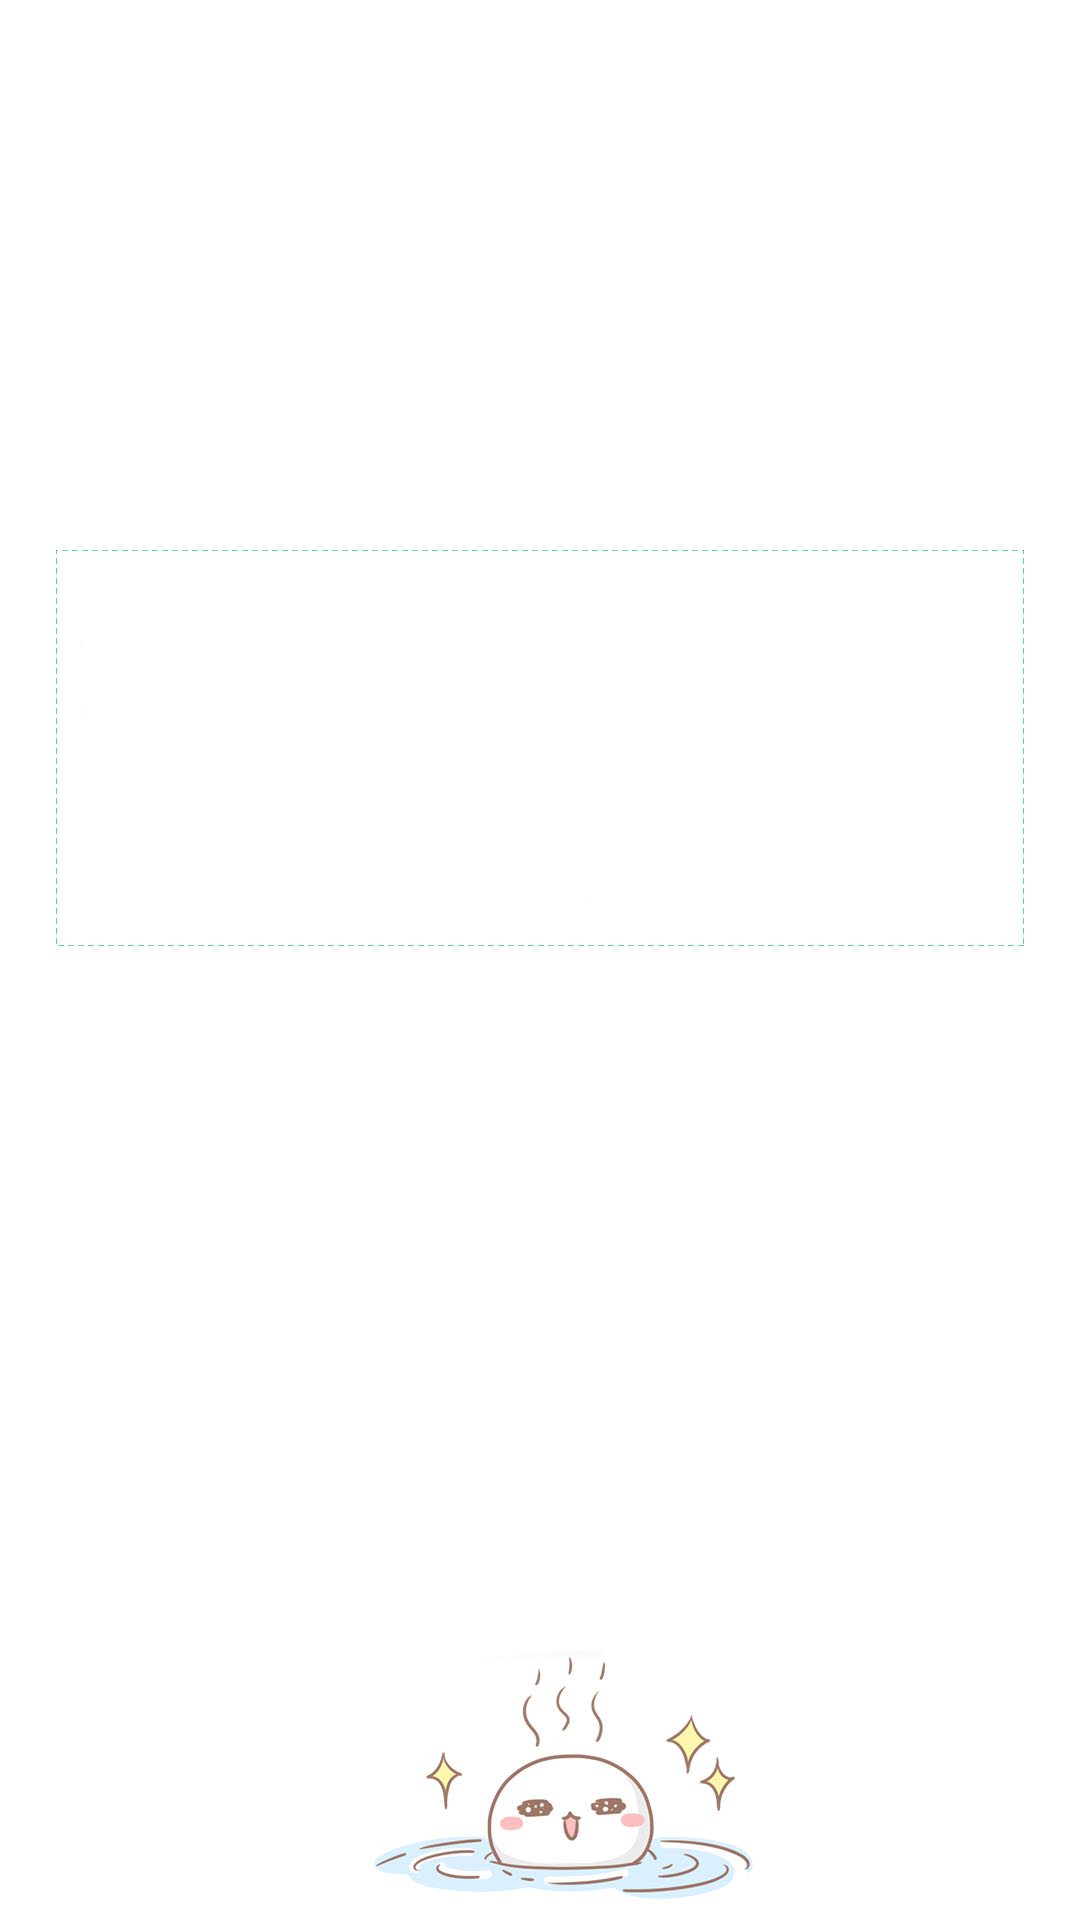
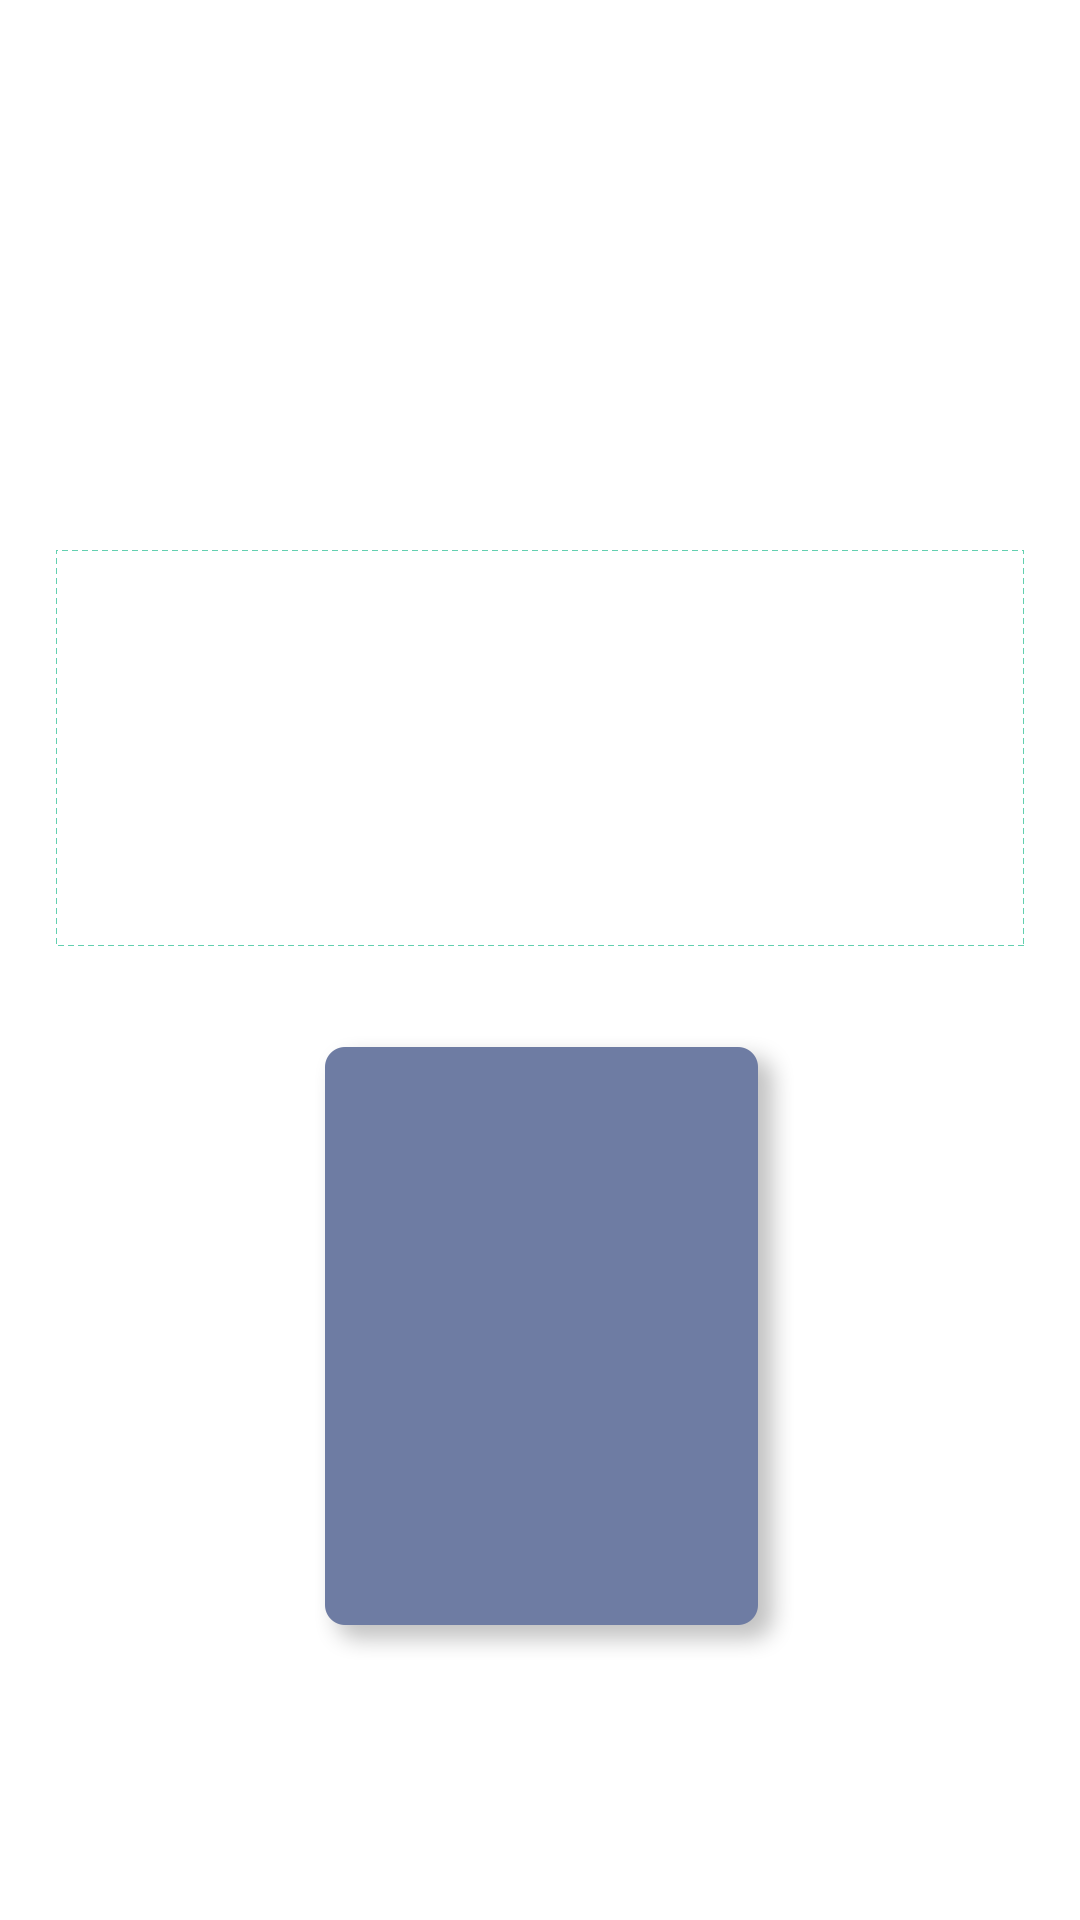
update 预览图工具

Changed region(s): [[0.275, 0.5312, 0.7333, 1.0]]

diff --git a/create_pic/create_pic.py b/create_pic/create_pic.py
@@ -21,29 +21,29 @@ default_output_path = os.path.join(  os.getcwd()  , 'output' )
 
 backMode = {
 	"text":[{
-		"size":50,
+		"size":40,
 		"ttf":"./msyh.ttc",
 		"color":"30,30,30",
 		"position":(90,560),
-		"frame":(900,50),
+		"frame":(900,40),
 	},{
-		"size":50,
+		"size":40,
 		"ttf":"./msyh.ttc",
 		"color":"30,30,30",
 		"position":(90,620),
-		"frame":(900,50),
+		"frame":(900,40),
 	},{
-		"size":50,
+		"size":40,
 		"ttf":"./msyh.ttc",
 		"color":"30,30,30",
 		"position":(90,680),
-		"frame":(900,50),
+		"frame":(900,40),
 	},{
-		"size":50,
+		"size":40,
 		"ttf":"./msyh.ttc",
 		"color":"30,30,30",
 		"position":(90,740),
-		"frame":(900,50),
+		"frame":(900,40),
 	}]
 }
 
@@ -172,6 +172,36 @@ def randomName(bgName,prefixArr):
 		return fileList[random.randint(0,len(fileList)-1)]
 
 
+def circle_corner(img, radii):
+    """
+    圆角处理
+    :param img: 源图象。
+    :param radii: 半径，如：30。
+    :return: 返回一个圆角处理后的图象。
+    """
+
+    # 画圆（用于分离4个角）
+    circle = Image.new('L', (radii * 2, radii * 2), 0)  # 创建一个黑色背景的画布
+    draw = ImageDraw.Draw(circle)
+    draw.ellipse((0, 0, radii * 2, radii * 2), fill=255)  # 画白色圆形
+
+    # 原图
+    img = img.convert("RGBA")
+    w, h = img.size
+
+    # 画4个角（将整圆分离为4个部分）
+    alpha = Image.new('L', img.size, 255)
+    alpha.paste(circle.crop((0, 0, radii, radii)), (0, 0))  # 左上角
+    alpha.paste(circle.crop((radii, 0, radii * 2, radii)), (w - radii, 0))  # 右上角
+    alpha.paste(circle.crop((radii, radii, radii * 2, radii * 2)), (w - radii, h - radii))  # 右下角
+    alpha.paste(circle.crop((0, radii, radii, radii * 2)), (0, h - radii))  # 左下角
+    # alpha.show()
+
+    img.putalpha(alpha)  # 白色区域透明可见，黑色区域不可见
+    return img
+
+
+
 def startWork( config ):
 	im = Image.open(os.path.join(os.getcwd(),'res',randomName(config[0] , ['bg']) )) # 打开文件
 	im = im.convert('RGBA')
@@ -187,10 +217,18 @@ def startWork( config ):
 	
 	targetObj = {'img':im}
 
+
+	# 切圆角
+	img2 = circle_corner(img2  , 20 );
+
 	# shadow
-	if config[14] == '1':
+	print 'is front img shadow?'
+	print 'config[14]:'
+	print config[14]
+	if config[14] == 1.0 :
+		print 'get shadow...' 
 		img3 = createShadowImg(img2)
-		targetObj = combineImg_New(im, img3 , '', ( int(size[0]) + 5 , int(size[1]) +5 ) , '' )
+		targetObj = combineImg_New(im, img3 , '', ( int(size[0]) + 10 , int(size[1]) +10 ) , '' )
 	targetObj = combineImg_New(targetObj['img'], img2 , '',( int(size[0]) , int(size[1])  ) ,'' )
 	
 	# img4 = Image.open('箭头@2x.png')
@@ -218,13 +256,20 @@ def startWork( config ):
 
 	if config[4]!= '' and config[5] != '' and config[6] != '' :
 		size = config[6].split(',')
-		font = ImageFont.truetype("./msyh.ttc", size = int(size[3])  )#更改文字字体
+		if config[19] == '':
+			font = ImageFont.truetype("./msyh.ttc", size = int(size[3])  )#更改文字字体
+		else:
+			font = ImageFont.truetype("./%s" % config[19], size = int(size[3])  )#更改文字字体
+
 		colorArr = getColorFromHex(config[5])
 		centerPoint = getPositionFromCenterPointAndText( config[4] , ( int(config[1].split(',')[0])  ,int(config[1].split(',')[1])  ) , "./NotoSansSC-Bold.ttf" ,  int(size[3])  ) 
 		draw.text( (centerPoint[0] , int(size[1]) ) , config[4],font= font ,  fill =  ( int(colorArr[0]) , int(colorArr[1]) , int(colorArr[2]) ) ) #利用ImageDraw的内置函数，在图片上写入文字
 	if config[7]!= '' and config[8] != '' and config[9] != '' :
 		size = config[9].split(',')
-		font = ImageFont.truetype("./NotoSansSC-Bold.ttf", size = int(size[3])  )#更改文字字体
+		if config[20] == '':
+			font = ImageFont.truetype("./NotoSansSC-Bold.ttf", size = int(size[3])  )#更改文字字体
+		else:
+			font = ImageFont.truetype("./%s" % config[20], size = int(size[3])  )#更改文字字体
 		colorArr = getColorFromHex(config[8])
 		centerPoint = getPositionFromCenterPointAndText( config[7] , ( int(config[1].split(',')[0])  ,int(config[1].split(',')[1])  ) , "./NotoSansSC-Bold.ttf" ,  int(size[3])  ) 
 		draw.text( (centerPoint[0] , int(size[1]) )  , config[7],font= font ,  fill =  ( int(colorArr[0]) , int(colorArr[1]) , int(colorArr[2]) ) ) #利用ImageDraw的内置函数，在图片上写入文字
@@ -243,13 +288,20 @@ def startWork( config ):
 
 	if config[10]!= '' and config[11] != '' and config[12] != '' :
 		size = config[12].split(',')
-		font = ImageFont.truetype("./NotoSansSC-Bold.ttf", size = int(size[3])  )#更改文字字体
+		if config[21] == '':
+			font = ImageFont.truetype("./NotoSansSC-Bold.ttf", size = int(size[3])  )#更改文字字体
+		else:
+			font = ImageFont.truetype("./%s" % config[21], size = int(size[3])  )#更改文字字体
+
 		colorArr = getColorFromHex(config[11])
 		centerPoint = getPositionFromCenterPointAndText( config[10] , ( int(config[1].split(',')[0])  ,int(config[1].split(',')[1])  ) , "./NotoSansSC-Bold.ttf" ,  int(size[3])  ) 
 		draw.text( (centerPoint[0] , int(size[1]) )   , config[10],font= font ,  fill =  ( int(colorArr[0]) , int(colorArr[1]) , int(colorArr[2]) ) ) #利用ImageDraw的内置函数，在图片上写入文字
 	if config[15]!= '' and config[16] != '' and config[17] != '' :
 		size = config[17].split(',')
-		font = ImageFont.truetype("./NotoSansSC-Bold.ttf", size = int(size[3])  )#更改文字字体
+		if config[22] == '':
+			font = ImageFont.truetype("./NotoSansSC-Bold.ttf", size = int(size[3])  )#更改文字字体
+		else:
+			font = ImageFont.truetype("./%s" % config[22], size = int(size[3])  )#更改文字字体
 		colorArr = getColorFromHex(config[16])
 		centerPoint = getPositionFromCenterPointAndText( config[15] , ( int(config[1].split(',')[0])  ,int(config[1].split(',')[1])  ) , "./NotoSansSC-Bold.ttf" ,  int(size[3])  ) 
 		draw.text( (centerPoint[0] , int(size[1]) )   , config[15],font= font ,  fill =  ( int(colorArr[0]) , int(colorArr[1]) , int(colorArr[2]) ) ) #利用ImageDraw的内置函数，在图片上写入文字

diff --git a/icon_rename/icon_rename.py b/icon_rename/icon_rename.py
@@ -212,6 +212,17 @@ def clearOutputPathButtonAction():
 		tkMessageBox.showinfo( "确认信息", "已清空:"  + outputPath +"文件夹内容..." )
 
 
+def isWindows():
+	return False
+	platformStr = platform.platform()
+	print platformStr
+	if platformStr.find("windows")>=0 or platformStr.find("Windows") >=0 :
+		print "platform is windows"
+		return True
+	else:
+		print "platform is not windows"
+		return False
+
 
 def startLayoutView():
 	global outputPathEntry,lb2,change_mode,iconsFilePathEntry
@@ -267,7 +278,11 @@ def startLayoutView():
 	lb2=Tkinter.Listbox(top,selectmode=MULTIPLE)
 
 	for item in getFileFromPath(default_res_file,['.conf']):
-		lb2.insert(END,str(item.decode('gbk').encode('utf-8')))
+		if(isWindows()):
+			lb2.insert(END,str(item.decode('gbk').encode('utf-8')))
+		else:
+			lb2.insert(END,str(item))
+
 	#  有两个特殊的值ACTIVE和END，ACTIVE是向当前选中的item前插入一个
 	# （即使用当前选中的索引作为插入位置）；END是向
 	#  Listbox的最后一项添加插入一项
